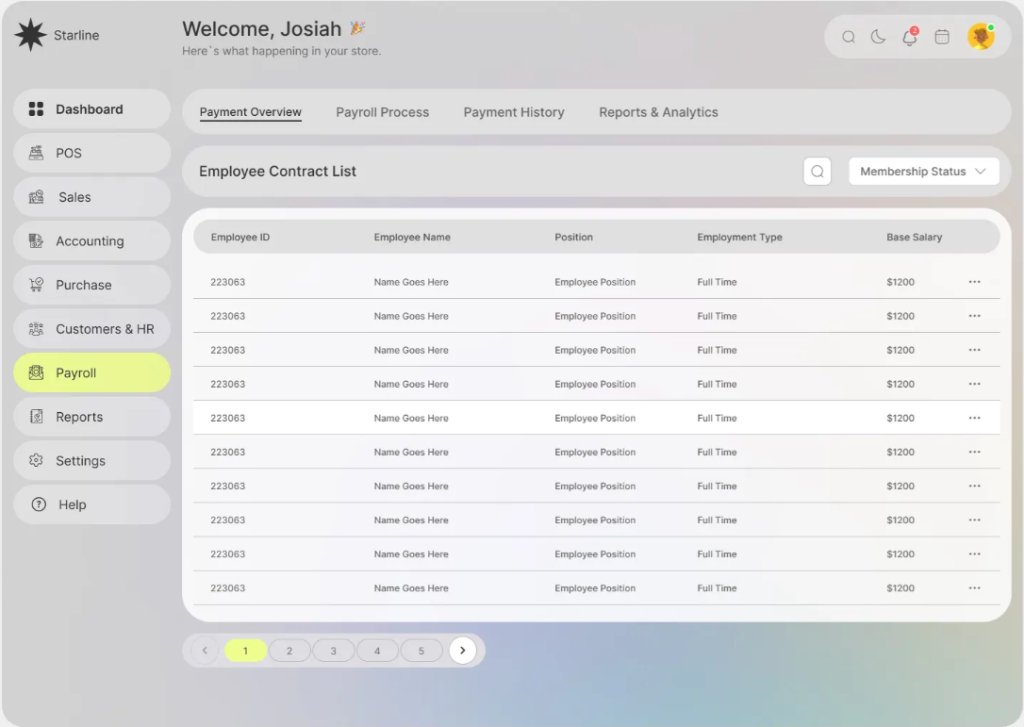
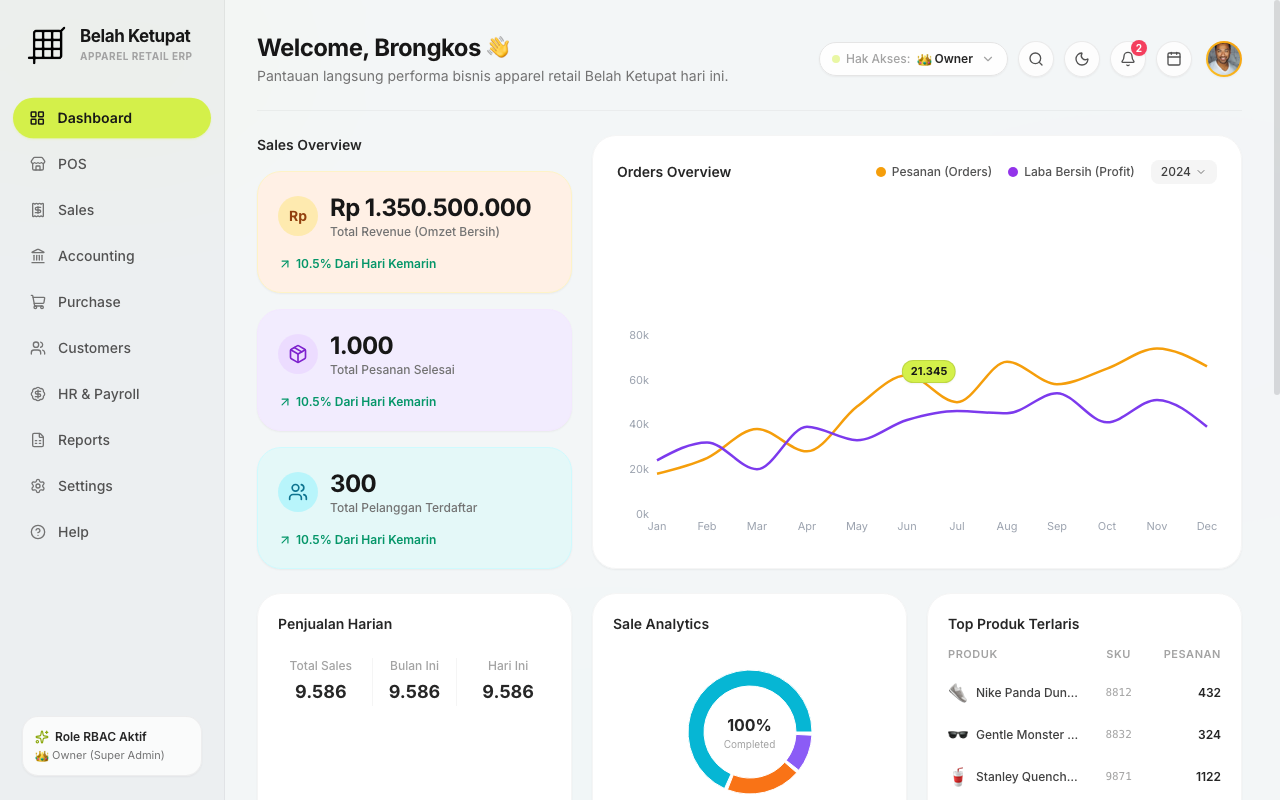
feat: tambahkan 5 aplikasi baru (Majelis Pro, MicDrop, NalaJiwa, SIPGN Helper, Lakon AI), perbarui screenshot NalarasaOS login CFO & Belah Ketupat ERP live demo

diff --git a/apps.js b/apps.js
@@ -481,7 +481,7 @@ const APPS_DATA = [
     "tagline": "Enterprise Resource Planning Modular untuk Industri Manufaktur",
     "description": "Enterprise Resource Planning Modular untuk Industri Manufaktur. Dikembangkan dan dirancang secara interaktif di lingkungan FLUXY.ID.",
     "category": "Enterprise & ERP",
-    "demoUrl": "",
+    "demoUrl": "https://boisterous-cendol-c96a76.netlify.app/",
     "githubUrl": "https://github.com/dewanakl/belah-ketupat-erp",
     "scratchPath": "/Users/ibobatsuga/.gemini/antigravity/scratch/starline-erp",
     "techStack": [
@@ -893,5 +893,137 @@ const APPS_DATA = [
     "date": "2026-11-21",
     "conversationId": "",
     "screenshot": "nextq.png"
+  },
+  {
+    "id": "majelis-pro",
+    "name": "Majelis Pro",
+    "originalTitle": "Majelis Pro - Jadwal & Rumah Ibadah",
+    "tagline": "Direktori & Jadwal Rumah Ibadah, Waktu Sholat Otomatis, Transparansi Kas & Kajian",
+    "description": "Platform informasi dan manajemen operasional rumah ibadah terpadu. Dilengkapi jadwal sholat otomatis berbasis koordinat GPS, transparansi laporan kas masjid, agenda pengajian & kajian, serta penunjuk arah kiblat presisi.",
+    "category": "Events & Wedding",
+    "demoUrl": "https://majelispro.vercel.app",
+    "githubUrl": "",
+    "scratchPath": "",
+    "techStack": [
+      "Next.js",
+      "React",
+      "Tailwind CSS",
+      "Geolocation API",
+      "Vercel"
+    ],
+    "features": [
+      "Jadwal sholat otomatis & hitung mundur waktu adzan",
+      "Transparansi laporan keuangan dan infaq/kas masjid",
+      "Direktori rumah ibadah terdekat & kalender agenda kajian",
+      "Kompas penunjuk arah kiblat real-time interaktif"
+    ],
+    "date": "2026-11-21",
+    "conversationId": "",
+    "screenshot": "majelis-pro.png"
+  },
+  {
+    "id": "micdrop",
+    "name": "MicDrop",
+    "originalTitle": "MicDrop - Voiceover Academy",
+    "tagline": "Platform Edukasi Voiceover, Dubbing, & Audio Creative Studio",
+    "description": "Platform pembelajaran dan pelatihan voiceover academy interaktif. Menghubungkan voice actor pemula hingga profesional dengan kurikulum teknik vokal, studio rekaman mandiri, dan showcase portofolio audio.",
+    "category": "Audio & Creative",
+    "demoUrl": "https://s.id/appmicdrop",
+    "githubUrl": "",
+    "scratchPath": "",
+    "techStack": [
+      "Web Audio API",
+      "HTML5",
+      "CSS3",
+      "JavaScript",
+      "Vercel"
+    ],
+    "features": [
+      "Modul latihan modulasi vokal, intonasi, & pernapasan",
+      "Studio rekaman audio take dengan visualizer waveform",
+      "Showcase kurikulum Voiceover Academy profesional",
+      "Evaluasi feedback rekaman audio real-time"
+    ],
+    "date": "2026-11-21",
+    "conversationId": "",
+    "screenshot": "micdrop.png"
+  },
+  {
+    "id": "nalajiwa",
+    "name": "NalaJiwa",
+    "originalTitle": "NALAJIWA - Kenali Polamu",
+    "tagline": "Tes Refleksi Kepribadian 16 Tipe dengan Karakter Anime & Laporan Mendalam",
+    "description": "Aplikasi asesmen kepribadian dan tes refleksi diri 16 tipe kepribadian yang divisualisasikan dengan seni karakter anime estetis. Menyediakan laporan analisis komprehensif 20 bagian mencakup psikologi, relasi, karier, dan potensi diri.",
+    "category": "AI & Healthcare",
+    "demoUrl": "https://zingy-sprite-23ae27.netlify.app",
+    "githubUrl": "",
+    "scratchPath": "",
+    "techStack": [
+      "React",
+      "Vite",
+      "Tailwind CSS",
+      "Netlify"
+    ],
+    "features": [
+      "Tes psikometri refleksi kepribadian 16 arketipe",
+      "Visualisasi kartu ilustrasi karakter anime eksklusif",
+      "Laporan kepribadian mendalam 20 bagian terstruktur",
+      "Analisis gaya komunikasi, kekuatan, dan kompatibilitas relasi"
+    ],
+    "date": "2026-11-21",
+    "conversationId": "",
+    "screenshot": "nalajiwa.png"
+  },
+  {
+    "id": "sipgn-helper",
+    "name": "SIPGN Helper",
+    "originalTitle": "SIPGN & Laporan Keuangan SPPG",
+    "tagline": "Sistem Terpadu Laporan Keuangan SPPG, Buku Kas Umum & Validasi Pajak",
+    "description": "Aplikasi pendukung administrasi dan pembukuan keuangan SPPG (Satuan Pelayanan Pengadaan Gabah/Beras). Mengotomasi pencatatan Buku Kas Umum (BKU), Buku Pembantu Kas, Pajak, Laporan Penggunaan Anggaran (LPA), dan validasi saldo.",
+    "category": "Finance & Kas",
+    "demoUrl": "https://fanciful-banoffee-78c30b.netlify.app/",
+    "githubUrl": "",
+    "scratchPath": "",
+    "techStack": [
+      "JavaScript ES6+",
+      "CSS3 Variables",
+      "HTML5 Semantik",
+      "Netlify"
+    ],
+    "features": [
+      "Otomasi Buku Kas Umum (BKU) dan Buku Pembantu Kas",
+      "Kalkulator dan pencatatan potongan pajak transaksi",
+      "Laporan Penggunaan Anggaran (LPA) dan validasi saldo otomatis",
+      "Form bantu penginputan pembelian langsung siap salin ke SIPGN"
+    ],
+    "date": "2026-11-21",
+    "conversationId": "",
+    "screenshot": "sipgn-helper.png"
+  },
+  {
+    "id": "lakon-ai",
+    "name": "Lakon AI",
+    "originalTitle": "Lakon AI - Kreasi & Kanvas",
+    "tagline": "Studio Kreasi Naskah Skenario, Kanvas Cerita, & Karakter Berbasis AI",
+    "description": "Studio kreatif kecerdasan buatan untuk penulis naskah, sutradara, dan kreator cerita. Membantu perancangan skenario film/teater, pembangkitan prompt karakter visual terintegrasi ModelArk BytePlus, dan kanvas papan cerita interaktif.",
+    "category": "Creative & Media",
+    "demoUrl": "https://lakonai-hazel.vercel.app/",
+    "githubUrl": "https://github.com/ibobatsuga/lakonai",
+    "scratchPath": "/Users/ibobatsuga/.gemini/antigravity/scratch/lakonai",
+    "techStack": [
+      "Node.js",
+      "BytePlus ModelArk API",
+      "Canvas API",
+      "Vercel"
+    ],
+    "features": [
+      "Generator naskah adegan dan dialog multi-karakter",
+      "Kanvas perancangan alur cerita dan breakdown adegan",
+      "Visualisasi karakter dan referensi moodboard kreatif",
+      "Penyimpanan sesi kreatif privat dan ekspor naskah standar industri"
+    ],
+    "date": "2026-11-21",
+    "conversationId": "",
+    "screenshot": "lakonai.png"
   }
 ];

diff --git a/index.html b/index.html
@@ -4,7 +4,7 @@
   <meta charset="UTF-8">
   <meta name="viewport" content="width=device-width, initial-scale=1.0">
   <title>Katalog Aplikasi FLUXY.ID — Portofolio & Direktori App</title>
-  <meta name="description" content="Katalog interaktif lengkap 34 aplikasi yang dibuat dan dikembangkan di FLUXY.ID">
+  <meta name="description" content="Katalog interaktif lengkap 39 aplikasi yang dibuat dan dikembangkan di FLUXY.ID">
   <link rel="preconnect" href="https://fonts.googleapis.com">
   <link rel="preconnect" href="https://fonts.gstatic.com" crossorigin>
   <link href="https://fonts.googleapis.com/css2?family=Plus+Jakarta+Sans:wght@400;500;600;700;800&family=JetBrains+Mono:wght@400;500;600&display=swap" rel="stylesheet">
@@ -60,7 +60,7 @@
         <div class="stat-card">
           <div class="stat-icon purple">📱</div>
           <div>
-            <div id="totalAppsCount" class="stat-number">34</div>
+            <div id="totalAppsCount" class="stat-number">39</div>
             <div class="stat-label">Total Aplikasi</div>
           </div>
         </div>
@@ -255,7 +255,7 @@
   </footer>
 
   <!-- Include App Data and App Logic -->
-  <script src="apps.js?v=2.1"></script>
+  <script src="apps.js?v=2.2"></script>
   <script>
     // State management
     let currentCategory = 'all';
